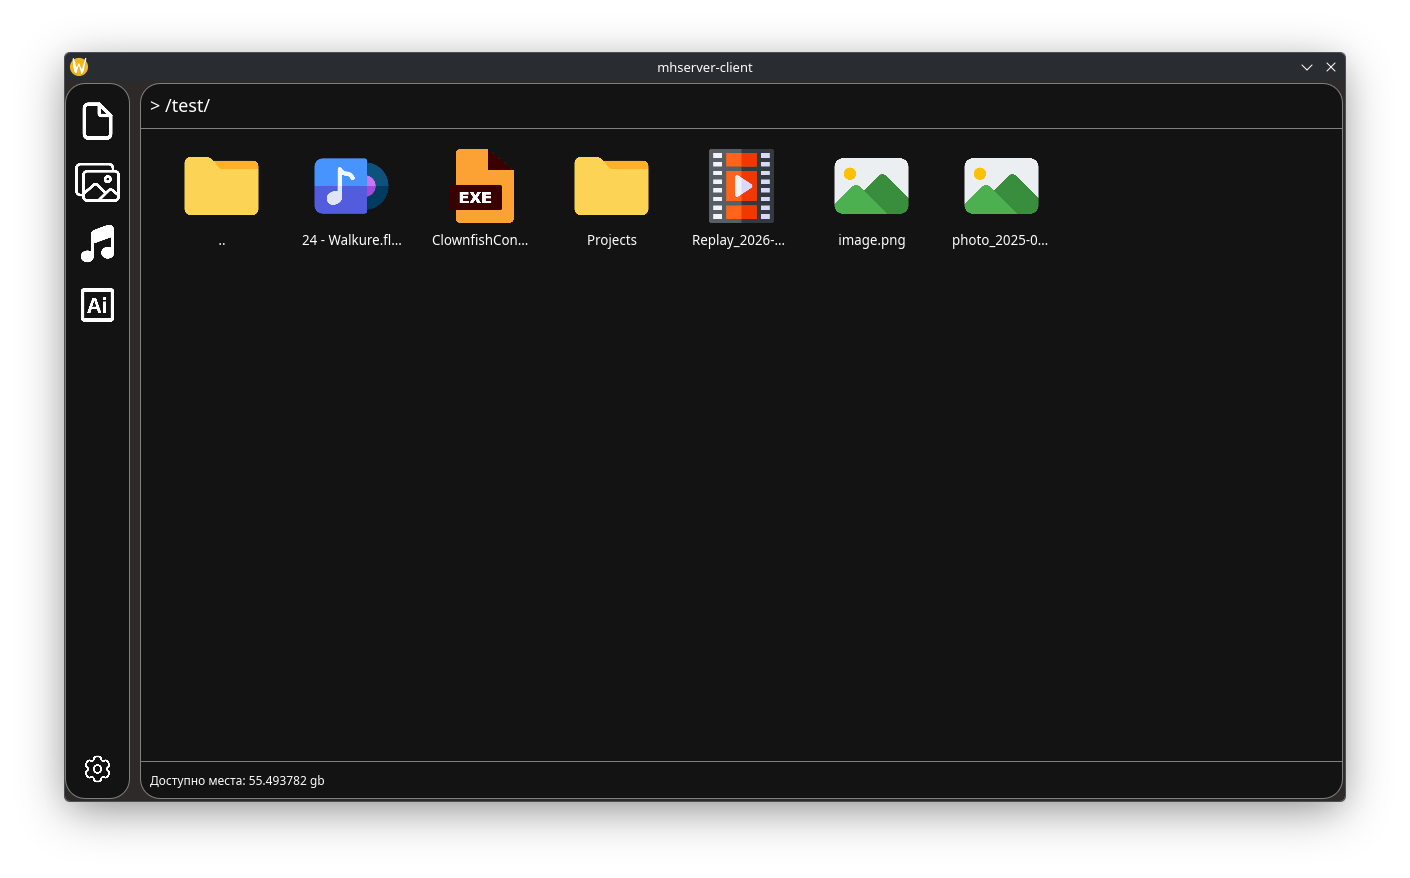
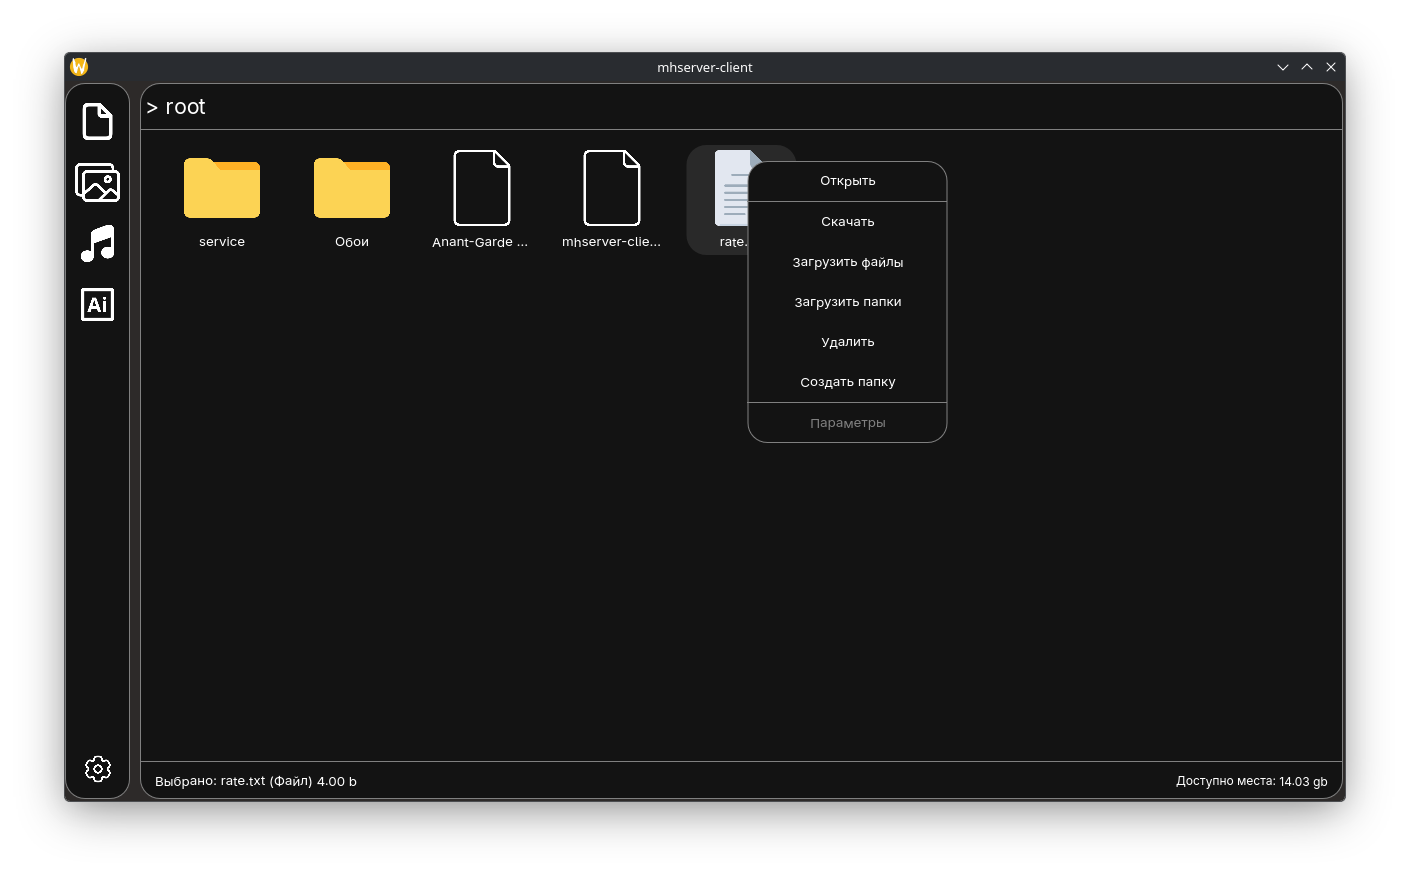
update screenshots

diff --git a/README.md b/README.md
@@ -98,5 +98,7 @@ https://[fe80::2e31:aac1:3a8e:12]:30543
 
 <p align="center">
   <img src="https://raw.githubusercontent.com/braginantonev/mhserver-client/main/docs/screenshots/main.png" alt="app logo" width="500"/>
+  <img src="https://raw.githubusercontent.com/braginantonev/mhserver-client/main/docs/screenshots/files.png" alt="app logo" width="500"/>
   <img src="https://raw.githubusercontent.com/braginantonev/mhserver-client/main/docs/screenshots/upload.png" alt="app logo" width="500"/>
+  <img src="https://raw.githubusercontent.com/braginantonev/mhserver-client/main/docs/screenshots/download.png" alt="app logo" width="500"/>
 </p>
